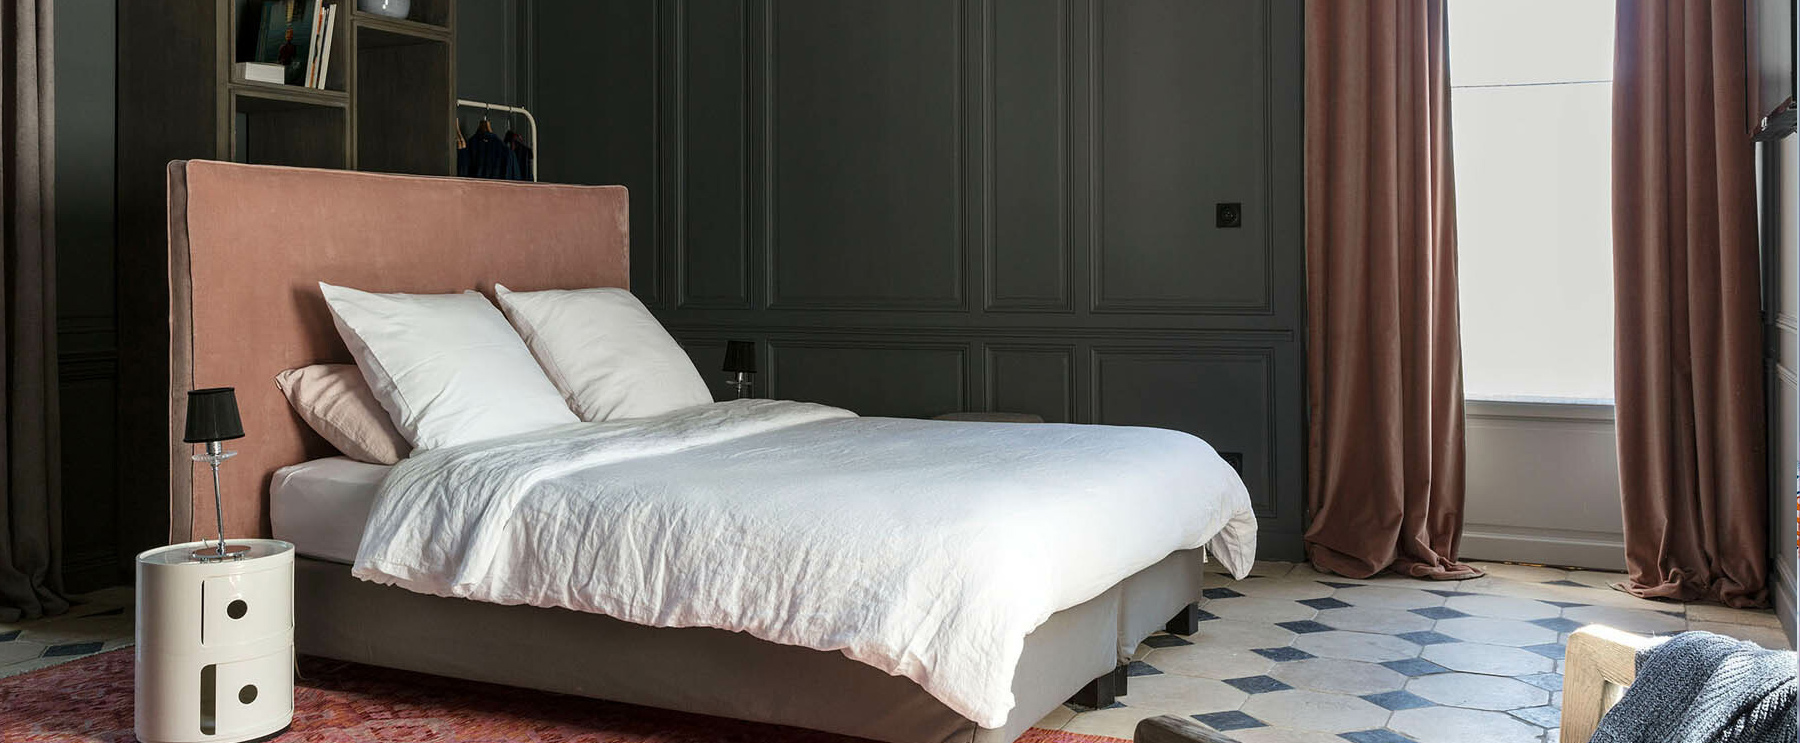
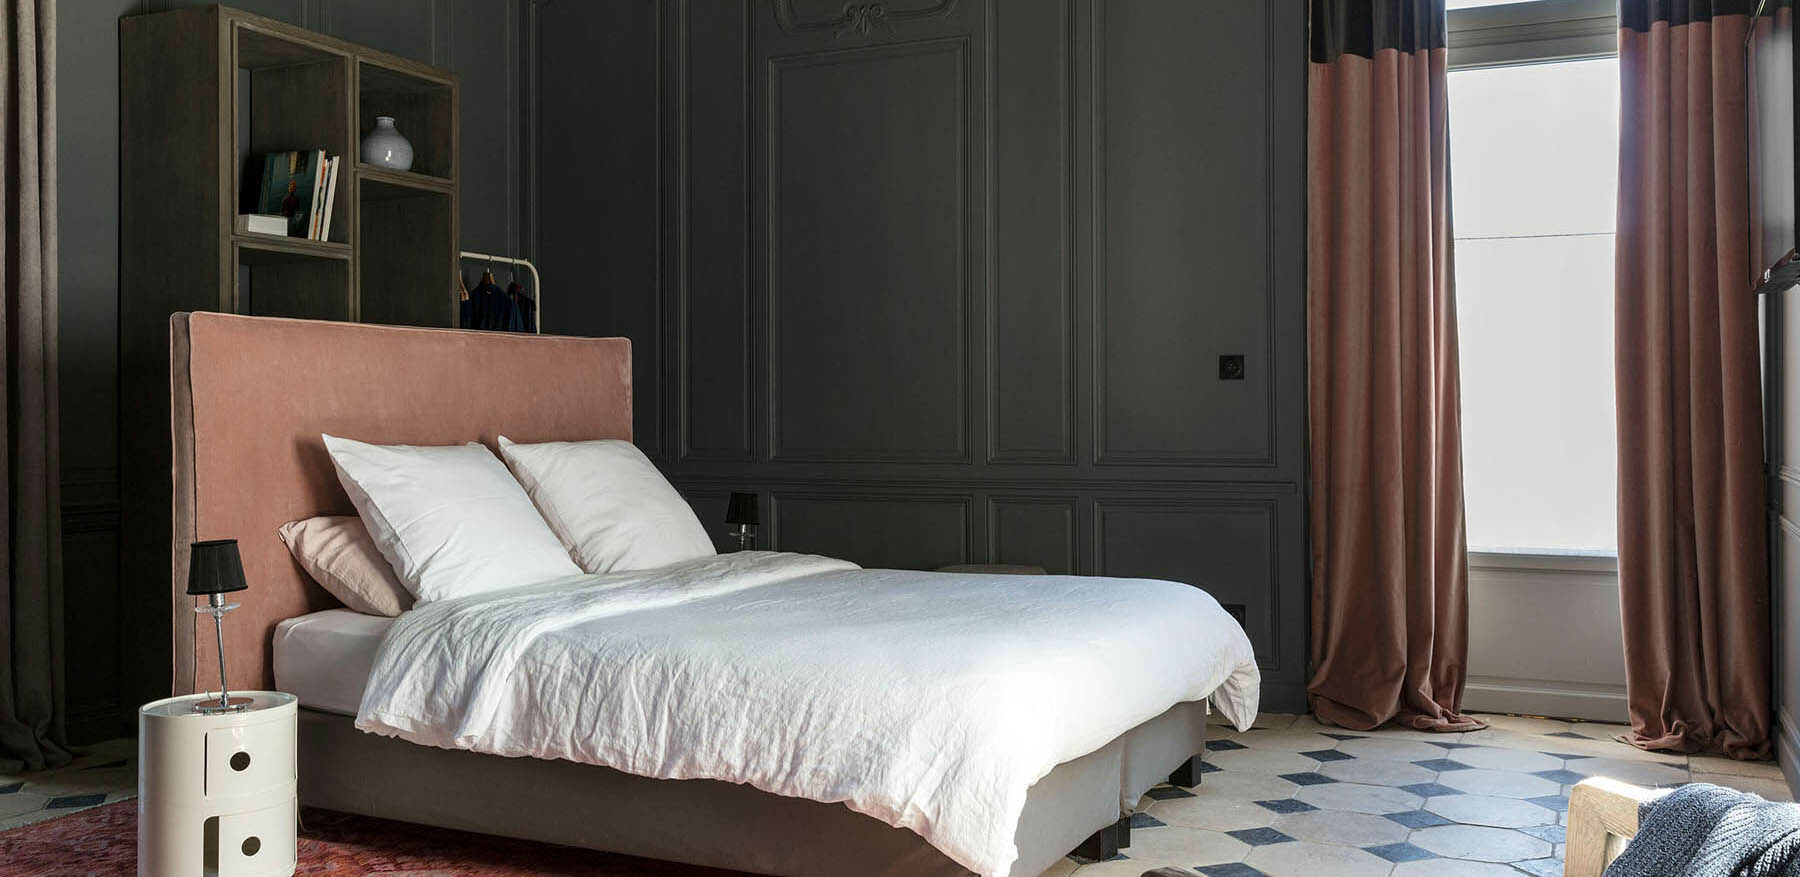
changed text color on index and updated images in slider

diff --git a/index.html b/index.html
@@ -22,7 +22,7 @@
     <!--Header with Navigation Menu-->
     <header class="negmar">
       <nav class="navbar navbar-expand-lg static-top navbar-dark">
-        <div class="container">
+        <div class="container nav-cont">
           <a class="navbar-brand fs-6" href="#">
                 Hilltop B&B
               </a>
@@ -66,24 +66,24 @@
                 <img src="images/slide1.jpg" class="d-block w-100 img-fluid imgFilter" alt="icon slide 1">
         
                 <div class="carousel-caption d-none d-md-block text-left">
-                    <h1 class="display-4">Indulge yourself in our charming rooms</h1>
-                    <p class="fs-4 fw-lighter">Let yourself be transported by the sweetness of life in one of the nine rooms which will seduce you with its incredible view. Nothing is left to chance.</p>
-                    <a href="https://elighidiu.github.io/Hilltop-B-B/service.html" class="btn btn-lg btn-primary btn-all" title="Book Now">BOOK NOW</a>
+                    <h1 class="display-4 light-text">Indulge yourself in our charming rooms</h1>
+                    <p class="fs-4 fw-lighter light-text">Let yourself be transported by the sweetness of life in one of the nine rooms which will seduce you with its incredible view. Nothing is left to chance.</p>
+                    <a href="https://elighidiu.github.io/Hilltop-B-B/service.html" class="btn btn-lg  btn-all" title="Book Now">BOOK NOW</a>
                 </div>         
             </div>
             <div class="carousel-item">
                 <img src="images/slide2.jpg" class="d-block w-100 img-fluid imgFilter" alt="icon slide 2">
                 <div class="carousel-caption d-none d-md-block text-left">
-                  <h1 class="display-4">Love for the ingredients we locally source</h1>
-                    <p class="fs-4 fw-lighter">When the weather allows, we enjoy dining outdoors, sometimes right in the middle of nature, in a beautiful meadow or on a coast from where you can admire the surroundings.</p>
+                  <h1 class="display-4 light-text">Love for the ingredients we locally source</h1>
+                    <p class="fs-4 fw-lighter light-text">When the weather allows, we enjoy dining outdoors, sometimes right in the middle of nature, in a beautiful meadow or on a coast from where you can admire the surroundings.</p>
                     <a href="https://elighidiu.github.io/Hilltop-B-B/service.html" class="btn btn-lg btn-primary btn-all" title="Learn More">LEARN MORE</a>
                 </div>         
             </div>
             <div class="carousel-item">
                 <img src="images/slide3.jpg" class="d-block w-100 img-fluid imgFilter" alt="icon slide 3">
                 <div class="carousel-caption d-none d-md-block text-left">
-                  <h1 class="display-4">Nature heals the human spirit</h1>
-                    <p class="fs-4 fw-lighter">Uncover the whole area by foot, bike, mood, energy, season or curiosity. The nature’s show is on 24/7: you can also get lazy an watch it from the terrace, sauna or from inside the wooden hot tub.
+                  <h1 class="display-4 light-text">Nature heals the human spirit</h1>
+                    <p class="fs-4 fw-lighter light-text">Uncover the whole area by foot, bike, mood, energy, season or curiosity. The nature’s show is on 24/7: you can also get lazy an watch it from the terrace, sauna or from inside the wooden hot tub.
                       </p>
                     <a href="https://elighidiu.github.io/Hilltop-B-B/explore.html" class="btn btn-lg btn-primary btn-all" title="Learn More">LEARN MORE</a>
                 </div>         
@@ -120,7 +120,7 @@
       <hr class=" my-5">
          <div class="row h-100">
           <div class="col-sm-12 col-md-4 col-lg-4">
-              <div class="text-center p-3 mb-3">
+              <div class="text-center p-3 mb-3 scale-el">
                   <img src="images/room_ex.jpg" alt="first review" height="500" width="309" class="img-fluid rounded img-shomelt">
                   
               </div>
@@ -156,7 +156,7 @@
              </div>
         </div>
           <div class="col-sm-12 col-md-4 col-lg-4">
-              <div class="text-center p-3 mb-3">
+              <div class="text-center p-3 mb-3 scale-el">
                   <img src="https://github.com/elighidiu/Hilltop-B-B/blob/main/images/bike.jpeg?raw=true" alt="first review" height="500" width="309" class="img-fluid rounded img-shomerb">
                   
               </div>
@@ -177,21 +177,21 @@
      </div>       
          <div class="row pb-5">
           <div class="col-sm-12 col-md-4 col-lg-4">
-              <div class="text-center p-3 mb-3 light-bg rounded shadow py-3">
+              <div class="text-center p-3 mb-3 light-bg rounded shadow py-3 scale-el">
                   <img src="images/review1.jpg" alt="first review" height="200" class="img-fluid rounded pb-3">
                   <p class="h5">Daria</p>
                   <p class="pb-3"><em>Beautiful place, topped only by the kindness and gentleness of the people working there. The air is fresh, the food is great, the people are very nice. </em></p>
               </div>
           </div>
           <div class="col-sm-12 col-md-4 col-lg-4">
-               <div class="text-center p-3 mb-3 light-bg rounded shadow">
+               <div class="text-center p-3 mb-3 light-bg rounded shadow scale-el">
                    <img src="images/review2.jpg" alt="second review" height="200" class="img-fluid rounded pb-3">
                    <p class="h5">Anna</p>
                    <p class="pb-3"><em>Incredible place! It is more than a vacation, it's an authentic and memorable experience. The people are friendly and warm hearted, the surroundings are like a fairy tale.</em>
                 </div>
            </div>
            <div class="col-sm-12 col-md-4 col-lg-4">
-               <div class="text-center p-3 mb-3 light-bg rounded shadow">
+               <div class="text-center p-3 mb-3 light-bg rounded shadow scale-el">
                    <img src="images/review3.jpg" alt="third review" height="200" class="img-fluid rounded pb-3">
                    <p class="h5">Jim</p>
                    <p class="pb-3"><em>The silence of nature is everywhere and it's the perfect location of you want to escape the world. Nevertheless, the room was extremely clean and the bed is the best I 've ever slept.</em>

diff --git a/style.css b/style.css
@@ -13,24 +13,26 @@ body{
     color:#e3dcd2;
 }
 
+.navbar-dark .navbar-nav .active>.nav-link {
+    color:#e3dcd2;
+}
+
+.navbar-dark .navbar-brand {
+    color: #e3dcd2;
+}
+
+.navbar-dark .navbar-brand:hover {
+    color: #e3dcd2;
+}
 .navbar {
     position: relative;
-    background-color: #100c0d;
-   /* background: rgba(16, 12, 13, 0.6); */ 
-    opacity: 0.7;
+    background: rgba(16, 12, 13, 0.6);
     z-index: 9999;
 }
-/*carousel*/
-
-.imgFilter {
-        filter:sepia(50%);
-        filter: brightness(50%);
+.nav-cont {
+    height: 40px;
 }
-
-.negmar {
-    margin-bottom: -5em;
-  }
-  
+ 
 /*footer*/
 
 footer {
@@ -52,6 +54,18 @@ footer {
     }
 
  /* ///// HOMEPAGE elements/////*/
+
+ /*carousel*/
+
+.imgFilter {
+    filter:sepia(50%);
+    filter: brightness(50%);
+}
+
+.negmar {
+margin-bottom: -5em;
+}
+
 .img-shomerb {
     box-shadow: 15px 15px 0px 0px #cc8b65;
 }
@@ -68,6 +82,13 @@ footer {
 }
 .light-bg {
     background-color:#e3dcd2;
+}
+
+.scale-el { 
+    transition: all .4s ease-in-out; 
+}
+.scale-el:hover { 
+    transform: scale(1.1); 
 }
 
 /*//// top text on pics /////*/
